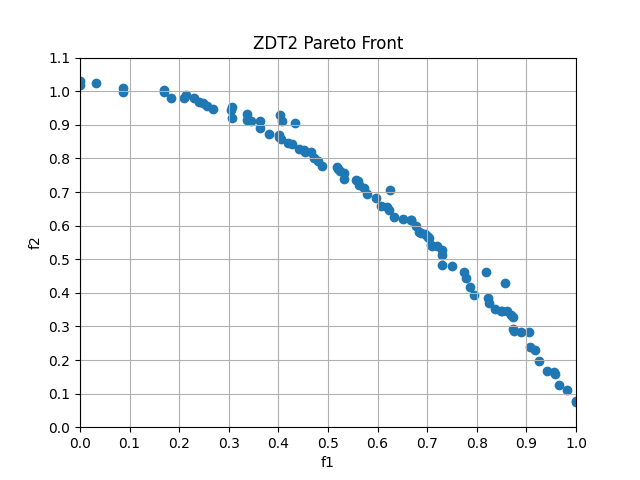
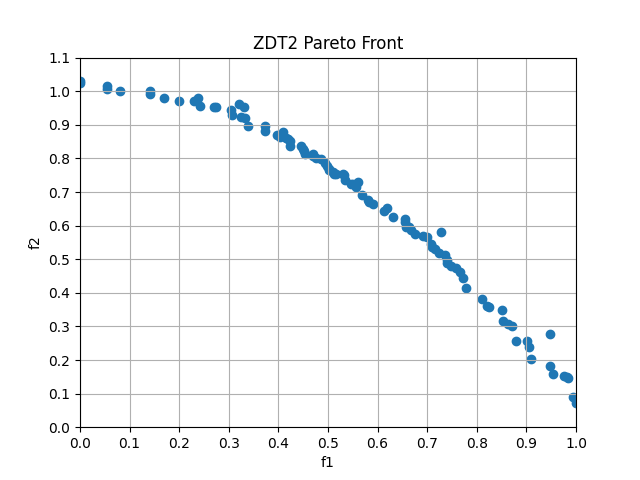
2

Changed region(s): [[0.125, 0.1562, 0.9062, 0.8438]]

diff --git a/nsga2_me.py b/nsga2_me.py
@@ -1,7 +1,8 @@
 import numpy
 import random
 import copy
-
+from matplotlib.ticker import MultipleLocator
+import matplotlib.pyplot as plt
 
 class Particles:
     def __init__(self):
@@ -18,8 +19,8 @@ class Particles:
         self.pareto = []    # 记录各个阶级的个体，其中pareto【0】记录了最优的粒子编号(第0层），长度为阶级数
         self.rank = []      # 记录每个粒子的阶级，长度为粒子数
         self.rank2 = []  # 记录父子粒子的阶级，长度为粒子数
-        self.cr = 0.1   # 交叉概率
-        self.mu = 0.1   # 变异概率
+        self.cr = 0.4   # 交叉概率
+        self.mu = 0.4   # 变异概率
 
     def init(self, number, length):
         """
@@ -38,13 +39,13 @@ class Particles:
             temp_x = copy.deepcopy(self.X)
             self.XX.append([temp_x, self.S, self.C])
 
-    @staticmethod
-    def cal_obj(x):  # 计算一个个体的多目标函数值 f1,f2 最小值,函数值越小视为越优
+    def cal_obj(self, x):  # 计算一个个体的多目标函数值 f1,f2 最小值,函数值越小视为越优
         f1 = x[0]
-        f2 = 0
-        for i in range(len(x)):
-            f2 += x[i]
-        f2 /= len(x)
+        f = 0
+        for i in range(len(self.X) - 1):
+            f += 9 * (x[i + 1] / (len(self.X) - 1))
+        g = 1 + f
+        f2 = g * (1 - numpy.square(f1 / g))
         return [f1, f2]
 
     def quick_sort(self):   # 快速非支配排序
@@ -58,9 +59,9 @@ class Particles:
             temp = []   # 存放第i个粒子支配的粒子集合(编号）
             for j in range(len(self.XX)):
                 if i != j:
-                    if self.XX[i][1][0] < self.XX[j][1][0] and self.XX[i][1][1] < self.XX[j][1][1]:     # j被i支配
+                    if self.XX[i][1][0] <= self.XX[j][1][0] and self.XX[i][1][1] <= self.XX[j][1][1]:     # j被i支配
                         temp.append(j)
-                    elif self.XX[i][1][0] > self.XX[j][1][0] and self.XX[i][1][1] > self.XX[j][1][1]:     # i被j支配
+                    elif self.XX[i][1][0] >= self.XX[j][1][0] and self.XX[i][1][1] >= self.XX[j][1][1]:     # i被j支配
                         self.np[i] += 1
             self.sp.append(temp)
         # 2.算出第0阶级的粒子
@@ -95,9 +96,9 @@ class Particles:
             temp = []   # 存放第i个粒子支配的粒子集合(编号）
             for j in range(len(self.XX2)):
                 if i != j:
-                    if self.XX2[i][1][0] < self.XX2[j][1][0] and self.XX2[i][1][1] < self.XX2[j][1][1]:     # j被i支配
+                    if self.XX2[i][1][0] <= self.XX2[j][1][0] and self.XX2[i][1][1] <= self.XX2[j][1][1]:     # j被i支配
                         temp.append(j)
-                    elif self.XX2[i][1][0] > self.XX2[j][1][0] and self.XX2[i][1][1] > self.XX2[j][1][1]:     # i被j支配
+                    elif self.XX2[i][1][0] >= self.XX2[j][1][0] and self.XX2[i][1][1] >= self.XX2[j][1][1]:     # i被j支配
                         self.np2[i] += 1
             self.sp2.append(temp)
         # 2.算出第0阶级的粒子
@@ -142,6 +143,7 @@ class Particles:
                     temp_xx.append(temp_x)
         self.XX_child = temp_xx
 
+
     def cross(self):
         for i in range(len(self.XX_child)):
             if self.cr > random.random():     # 进行交叉
@@ -149,25 +151,32 @@ class Particles:
                 if temp_index != i:
                     temp_x = random.random()
                     for j in range(len(self.X)):
-                        self.XX_child[i][0][j] = temp_x * self.XX_child[temp_index][0][j] + (1 - temp_x) * self.XX_child[i][0][j]
+                        x = temp_x * self.XX_child[temp_index][0][j] + (1 - temp_x) * self.XX_child[i][0][j]
                         self.XX_child[temp_index][0][j] = temp_x * self.XX_child[i][0][j] + (1 - temp_x) * self.XX_child[temp_index][0][j]
+                        self.XX_child[i][0][j] = x
                 # print(i, "交叉", temp_index)
 
     def mutation(self):
         for i in range(len(self.XX_child)):
-            if self.mu > random.random():     # 进行变异
-                temp_index = random.randint(0, (len(self.X) - 1))     # 选择变异的位置
-                self.XX_child[i][0][temp_index] = random.random()
-                # print(i, "变异")
+            for j in range(len(self.X)):
+                if self.mu > random.random():  # 进行变异
+                    self.XX_child[i][0][j] = self.XX_child[i][0][j] - 0.1 + numpy.random.random() * 0.2
+                    if self.XX_child[i][0][j] < 0:
+                        self.XX_child[i][0][j] = 0  # 最小值0
+                    if self.XX_child[i][0][j] > 1:
+                        self.XX_child[i][0][j] = 1  # 最大值1
 
     def update_s_child(self):   # 更新子代粒子适应度值
         for i in range(len(self.XX_child)):
             self.XX_child[i][1] = self.cal_obj(self.XX_child[i][0])
 
     def be_the_one(self):   # 合并父子粒子
+        self.XX2 = []
         for i in range(len(self.XX)):
-            self.XX2.append(self.XX[i])
-            self.XX2.append(self.XX_child[i])
+            temp = copy.deepcopy(self.XX[i])
+            self.XX2.append(temp)
+            temp = copy.deepcopy(self.XX_child[i])
+            self.XX2.append(temp)
 
     def crowd(self):    # 拥挤度计算
         #   根据函数1对粒子进行排序
@@ -179,9 +188,9 @@ class Particles:
         for i in range(len(self.XX2)):
             temp2.append([self.XX2[i][1][1], i])
         temp2.sort(key=lambda x: x[0])
-        print(temp1)
-        print(temp2)
         #   计算所有粒子的拥挤度
+        for i in range(len(self.XX2)):
+            self.XX2[i][2] = 0
         for i in range(len(self.XX2)):  # 计算粒子i的拥挤度
             for j in range(len(temp1)):
                 if i == temp1[j][1]:
@@ -189,39 +198,90 @@ class Particles:
                         self.XX2[i][2] = float('inf')
                     else:
                         self.XX2[i][2] += (temp1[j+1][0] - temp1[j-1][0])
-
-
             for j in range(len(temp2)):
                 if i == temp2[j][1]:
                     if j == 0 or j == len(self.XX2) - 1:     # 该粒子在边界
                         self.XX2[i][2] = float('inf')
-                        print(i, "2")
                     else:
                         self.XX2[i][2] += (temp2[j+1][0] - temp2[j-1][0])
-        for i in range(len(self.XX2)):
-            print(i, self.XX2[i])
+        # for i in range(len(self.XX2)):
+        #     print(i, self.XX2[i])
 
     def choose(self):    # 选择新父代
-        pass
+        self.XX = []    # 初始化父代
+        # 从pareto最优面的前几阶级塞粒子进父代，直到某一阶级的粒子不能全放入新的父代为止
+        rank_temp = 0   # 现在进行遍历第rank_temp阶级的粒子
+        while (len(self.XX_child) - len(self.XX)) > len(self.pareto[rank_temp]):
+            for i in self.pareto[rank_temp]:
+                temp = copy.deepcopy(self.XX2[i])
+                self.XX.append(temp)
+            rank_temp += 1
+        # 当某一阶级的粒子不能全放入新父代时，选择拥挤度高的粒子放入新父代
+        sort_temp = []  # 把要排序的粒子放入此处
+        for i in self.pareto[rank_temp]:
+            temp = copy.deepcopy(self.XX2[i])
+            sort_temp.append(temp)
+        sort_temp.sort(key=lambda x: x[2], reverse=True)
+        for i in range(len(self.XX_child) - len(self.XX)):
+            self.XX.append(sort_temp[i])
+        # print("拥挤度排序")
+        # for i in range(len(sort_temp)):
+        #     print("该粒子编号", i, "适应度函数值为", sort_temp[i][1][0], sort_temp[i][1][1], "拥挤度值为", sort_temp[i][2])
+
+    def draw(self):
+        x = []  # 要绘制点的x坐标，即适应度函数1的值
+        y = []
+        for i in self.pareto[0]:
+            x.append(self.XX[i][1][0])
+            y.append(self.XX[i][1][1])
+        ax = plt.subplot(111)
+        plt.scatter(x, y)  # ,marker='+')#self.objectives[:][0],self.objectives[:][1]) #?
+        # plt.plot(,'--',label='')
+        plt.axis([0.0, 1.0, 0.0, 1.1])
+        xmajorLocator = MultipleLocator(0.1)
+        ymajorLocator = MultipleLocator(0.1)
+        ax.xaxis.set_major_locator(xmajorLocator)
+        ax.yaxis.set_major_locator(ymajorLocator)
+        plt.xlabel('f1')
+        plt.ylabel('f2')
+        plt.title('Pareto Front')
+        plt.grid()
+        # plt.show()
+        plt.savefig('Pareto Front 2.png')
 
 
 if __name__ == '__main__':
-    gen = 1
+    gen = 500
     particles = Particles()
-    particles.init(30, 5)
+    particles.init(100, 30)
     particles.quick_sort()
-    # for i in range(len(particles.pareto)):
-    #     print("正在输出第", i, "阶级")
-    #     for j in particles.pareto[i]:
-    #         print("该粒子编号", j, "适应度函数值为", particles.XX[j][1][0], particles.XX[j][1][1])
     while gen > 0:
         particles.select()
+        # for i in range(len(particles.pareto)):
+        #     print("正在输出第", i, "阶级")
+        #     for j in particles.pareto[i]:
+        #         print("该粒子编号", j, "适应度函数值为", particles.XX[j][1][0], particles.XX[j][1][1], "拥挤度值为", particles.XX[j][2])
+        # particles.XX_child = []
+        # for i in range(len(particles.XX)):
+        #     temp = copy.deepcopy(particles.XX[i])
+        #     particles.XX_child.append(temp)
         particles.cross()
         particles.mutation()
         particles.update_s_child()
         particles.be_the_one()
         particles.quick_sort_2()
+        # for i in range(len(particles.pareto)):
+        #     print("正在输出第", i, "阶级")
+        #     for j in particles.pareto[i]:
+        #         print("该粒子编号", j, "适应度函数值为", particles.XX2[j][1][0], particles.XX2[j][1][1], "拥挤度值为", particles.XX2[j][2])
         particles.crowd()
         particles.choose()
+        particles.quick_sort()
+        for i in range(len(particles.pareto)):
+            print("正在输出第", i, "阶级")
+            for j in particles.pareto[i]:
+                print("该粒子编号", j, "适应度函数值为", particles.XX[j][1][0], particles.XX[j][1][1], "拥挤度值为", particles.XX[j][2])
         gen -= 1
+
+    particles.draw()
 

diff --git a/python_cn.py b/python_cn.py
@@ -298,6 +298,11 @@ class NSGA2():
             self.non_donminate2()
             self.crowd_distance()
             self.select_newparent()  # 根据Pareto等级和拥挤度选取新的父代种群，选择交叉变异
+            self.non_donminate1()
+            for j in range(len(self.fronts)):
+                print("阶级", j)
+                for i in range(len(self.fronts[j])):
+                    print(self.cal_obj(self.population[self.fronts[j][i]]))
         self.draw()
         # print(self.fronts)
         # print(self.population)

diff --git a/test.py b/test.py
@@ -1,10 +1,2 @@
-import numpy as np
-import copy
-
-a = np.zeros(5)
-a = np.array([1 ,2 ,3 , 4, 5])
-b = np.zeros(5)
-b = a
-a[0] = 100
-print(a)
-print(b)
+import numpy
+print(numpy.random.random() * 0.2)
